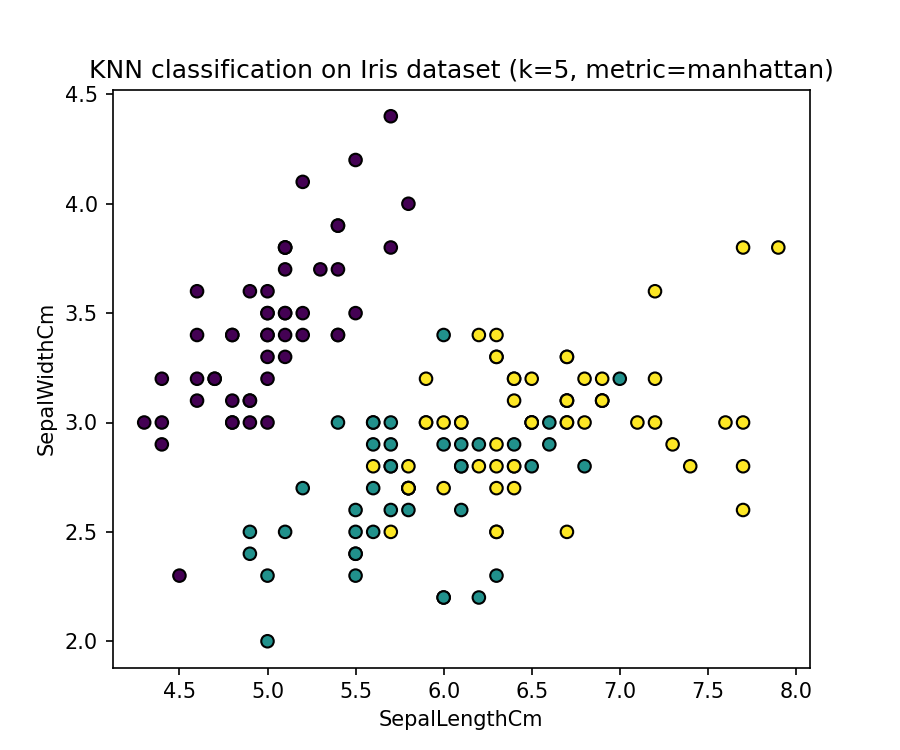
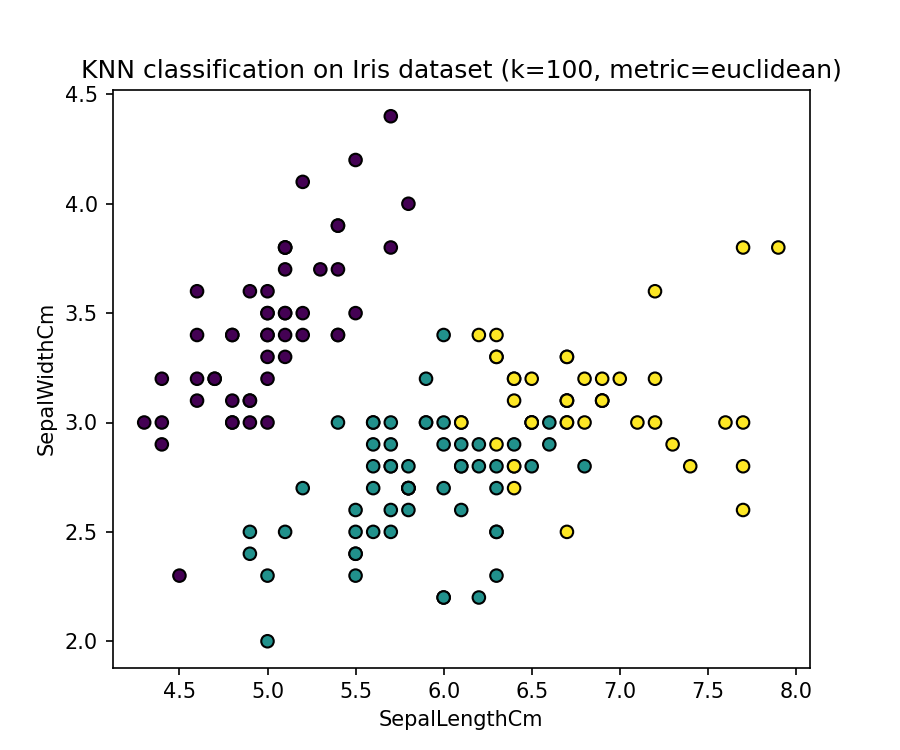
Corrigi distância Euclideana

diff --git a/src/distance.py b/src/distance.py
@@ -1,6 +1,6 @@
 import numpy as np
 
-def distance(v1, v2, metric = 'euclidian'):
+def distance(v1, v2, metric = 'euclidean'):
     """
     Computa a distância entre dois pontos num espaço N-dimensional.
     Os inputs têm de ser vetores com a mesma dimensão.
@@ -16,7 +16,7 @@ def distance(v1, v2, metric = 'euclidian'):
     if v1.shape != v2.shape: # verifica se v1 e v2 têm a mesma dimensão
         raise ValueError("v1 and v2 têm de ter a mesma dimensão") # devolve erro
     else:
-        if metric == 'euclidian':
+        if metric == 'euclidean':
             dist_euc = np.sqrt(np.sum((v1 - v2) ** 2)) # computa distância euclidiana, numpy faz o somatório da substração elemento a elemento e o quadrado também
             return dist_euc # devolve a distância euclidiana
         elif metric == 'manhattan':

diff --git a/exemplo.py b/exemplo.py
@@ -20,8 +20,8 @@ def main():
             # Species -> y.target
     X = data.data
     y = data.target
-    k = 5 # define o k aqui em vez de ser na chamada da função, assim altera logo nos visuais gerados
-    metric = 'manhattan'
+    k = 100 # define o k aqui em vez de ser na chamada da função, assim altera logo nos visuais gerados
+    metric = 'euclidean'
     normalize_data = 'standardize'
 
     # Correr o algoritmo:

diff --git a/src/knn.py b/src/knn.py
@@ -2,7 +2,7 @@ import numpy as np
 from src.distance import distance
 from src.scaler import scaler
 
-def knn_predict(X_train, y_train, X_test, k=3, metric = 'euclidian', normalize_data=False):
+def knn_predict(X_train, y_train, X_test, k=3, metric = 'euclidean', normalize_data=False):
     """
     Metodo de classificacao supervisionada K nearest neighbors
     
